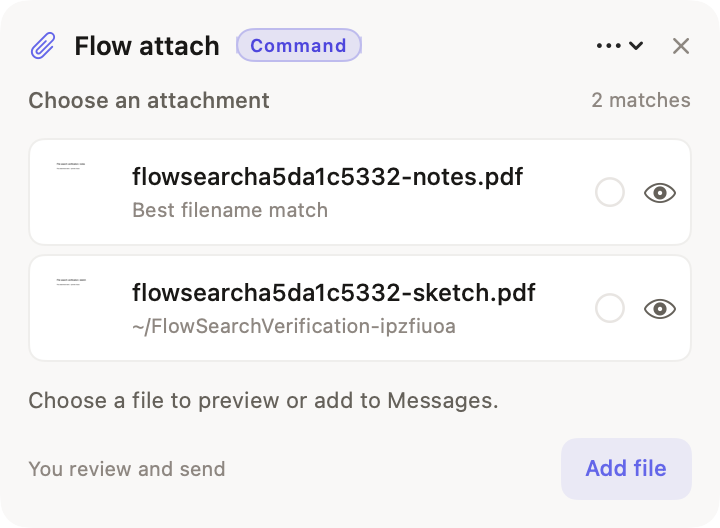
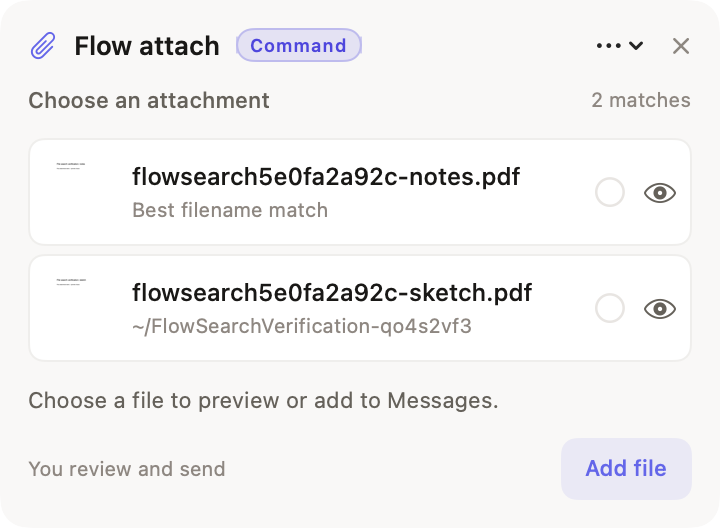
Make the attachment picker clearly show other matches and replacement

Changed region(s): [[0.3667, 0.303, 0.7333, 0.3636], [0.3361, 0.5152, 0.7639, 0.5758], [0.5194, 0.6061, 0.6722, 0.6364]]

diff --git a/Sources/FlowApp/AttachmentCard.swift b/Sources/FlowApp/AttachmentCard.swift
@@ -11,6 +11,21 @@ struct AttachmentCard: View {
     @State private var previewID: UUID?
     @State private var showSearch = false
 
+    private var showingAlternatives: Bool {
+        session.attachedID != nil && (session.attachmentConfirmed || session.busy) &&
+            session.candidates.contains { $0.id != session.attachedID }
+    }
+
+    private var visibleCandidates: [AttachmentCandidate] {
+        showingAlternatives ? session.candidates.filter { $0.id != session.attachedID } : session.candidates
+    }
+
+    private var footerHint: String {
+        if showingAlternatives && session.selectedID == session.attachedID { return "Select one to replace" }
+        if session.attachedID != nil && session.selectedID != session.attachedID { return "Replaces Flow’s file only" }
+        return "You review and send"
+    }
+
     var body: some View {
         if let plan = session.plan {
             VStack(alignment: .leading, spacing: 12) {
@@ -46,27 +61,27 @@ struct AttachmentCard: View {
                     }.disabled(session.busy || session.pasteRequested)
                 }
                 HStack {
-                    Text(session.attachmentConfirmed ? "Added to your draft" : session.searching ? "Finding files…" : "Choose an attachment")
+                    Text(showingAlternatives ? "Other matches" : session.attachmentConfirmed ? "Added to your draft" : session.searching ? "Finding files…" : "Choose an attachment")
                         .font(.system(size: 11, weight: .medium)).foregroundStyle(FW.textSecondary)
                     Spacer()
-                    if !session.candidates.isEmpty {
-                        Text("\(session.candidates.count) \(session.candidates.count == 1 ? "match" : "matches")")
+                    if !visibleCandidates.isEmpty {
+                        Text("\(visibleCandidates.count) \(visibleCandidates.count == 1 ? "match" : "matches")")
                             .font(.system(size: 10)).foregroundStyle(FW.textMuted)
                     }
                 }
-                if !session.candidates.isEmpty {
+                if !visibleCandidates.isEmpty {
                     ScrollView {
                         LazyVStack(spacing: 4) {
-                            ForEach(session.candidates) { candidate in row(candidate) }
+                            ForEach(visibleCandidates) { candidate in row(candidate) }
                         }
                     }
-                    .frame(height: CGFloat(min(session.candidates.count, 3)) * 58 - 4)
+                    .frame(height: CGFloat(min(visibleCandidates.count, 3)) * 58 - 4)
                     .focusable().focusEffectDisabled()
                     .onMoveCommand { direction in
-                        guard !session.busy, direction == .up || direction == .down else { return }
-                        let current = session.candidates.firstIndex { $0.id == session.selectedID } ?? -1
-                        let next = min(session.candidates.count - 1, max(0, current + (direction == .down ? 1 : -1)))
-                        session.choose(session.candidates[next].id)
+                        guard !session.busy, !visibleCandidates.isEmpty, direction == .up || direction == .down else { return }
+                        let current = visibleCandidates.firstIndex { $0.id == session.selectedID } ?? -1
+                        let next = min(visibleCandidates.count - 1, max(0, current + (direction == .down ? 1 : -1)))
+                        session.choose(visibleCandidates[next].id)
                     }
                 }
                 // Keep errors visible, while successful state is communicated in the row.
@@ -75,7 +90,7 @@ struct AttachmentCard: View {
                         .fixedSize(horizontal: false, vertical: true).lineLimit(3)
                 }
                 HStack(spacing: 8) {
-                    Text(session.attachedID != nil && session.selectedID != session.attachedID ? "Replaces Flow’s file only" : "You review and send")
+                    Text(footerHint)
                         .font(.system(size: 10)).foregroundStyle(FW.textMuted)
                     Spacer(minLength: 2)
                     Button(actionTitle) {
@@ -99,7 +114,7 @@ struct AttachmentCard: View {
     private var actionTitle: String {
         if needsManualCopy { return "Copy file" }
         if session.selectedID == session.attachedID, session.attachedID != nil { return "Done" }
-        return session.attachedID == nil ? "Add file" : "Use this file"
+        return session.attachedID == nil ? "Add file" : "Replace"
     }
 
     private func row(_ candidate: AttachmentCandidate) -> some View {

diff --git a/scripts/simulate-imessage-full.swift b/scripts/simulate-imessage-full.swift
@@ -264,6 +264,12 @@ final class FullMessagesDemo {
                 if args.contains("--verify-replacement") { checks["alternative_replacement"] = replacementVerified }
                 state.isProcessing = false; state.isStreamingOutput = false; indicator?.hide()
                 preview?.show(candidateCount: session.candidates.count, isSearch: true)
+                try await Task.sleep(for: .milliseconds(200))
+                if let view = NSApplication.shared.windows.first(where: { $0.title == "Flow · Attachment" })?.contentView,
+                   let bitmap = view.bitmapImageRepForCachingDisplay(in: view.bounds) {
+                    view.cacheDisplay(in: view.bounds, to: bitmap)
+                    try bitmap.representation(using: .png, properties: [:])?.write(to: folder.appendingPathComponent("attachment-popup.png"))
+                }
                 results.append(["kind": kind, "generated_message": output, "command": plan.command,
                     "caption_updates": captionUpdates, "llm_chunks": rawChunks, "display_frames": chunks, "native_text_writes": writer.writes,
                     "display_reveal_seconds": revealSeconds, "largest_display_chunk": largestDisplayChunk, "largest_native_write": writer.largestWrite,

diff --git a/Sources/FlowApp/AttachmentSession.swift b/Sources/FlowApp/AttachmentSession.swift
@@ -145,7 +145,7 @@ final class AttachmentSession: ObservableObject {
         guard !busy, candidates.contains(where: { $0.id == id }) else { return }
         selectedID = id; needsChoice = false; hasIssue = false
         status = id == attachedID ? "Already in your Messages draft. You send the message."
-            : attachedID == nil ? "Selected for review. You send the message." : "Choose Use this file to replace only the attachment Flow added."
+            : attachedID == nil ? "Selected for review. You send the message." : "Choose Replace to change only the attachment Flow added."
     }
 
     func automaticallyStage(engine: Flow, insertionUnchanged: Bool) async {

diff --git a/scripts/simulate-imessage-full.py b/scripts/simulate-imessage-full.py
@@ -7,6 +7,7 @@ import os
 from pathlib import Path
 import plistlib
 import signal
+import shutil
 import subprocess
 import tempfile
 import time
@@ -72,6 +73,7 @@ def main():
             (folder / f'{kind}.pcm').write_bytes(audio.readframes(audio.getnframes()))
     report = folder / 'report.json'
     report.unlink(missing_ok=True)
+    (folder / 'attachment-popup.png').unlink(missing_ok=True)
     subprocess.run(['open', '-a', 'Messages'], check=True)
     with (folder / 'stdout.log').open('w') as out, (folder / 'stderr.log').open('w') as err:
         command = [str(executable), '--voice-simulation', '--folder', str(folder), '--fixtures', str(fixtures),
@@ -85,6 +87,8 @@ def main():
             result = json.loads(report.read_text())
             if result['status'] != 'running':
                 (ROOT / 'review/imessage-full-demo-verification.json').write_text(json.dumps(result, indent=2) + '\n')
+                if result['status'] == 'ready' and (folder / 'attachment-popup.png').exists():
+                    shutil.copyfile(folder / 'attachment-popup.png', ROOT / 'review/imessage-other-matches.png')
                 print(json.dumps(result, indent=2))
                 if result['status'] != 'ready': raise SystemExit(1)
                 print('Full demo finished. Attachments and candidate popup remain in Messages; nothing was sent.')

diff --git a/docs/attachment-resume.md b/docs/attachment-resume.md
@@ -399,3 +399,28 @@ comparison verified changing dots, unchanged white live-message pixels across
 dot frames and the same caption border position before/after recording. The
 review GIF and stills are updated. These checks used synthetic captions and real
 local OCR without microphone, cloud requests or Messages writes.
+
+## Make attachment alternatives explicit (October 18)
+
+The user wanted the popup to explain that the best match is already attached
+and the list contains other choices, using concise language. After confirmation,
+the picker now says Other matches and filters out Flow's currently attached file.
+The count reflects the remaining choices. Select one to replace guides the next
+action, and choosing a candidate changes the button to Replace. Done dismisses
+without changing the file. Initial selection and single-file confirmation retain
+their existing labels. Keyboard selection uses the visible list, including an
+empty-list guard. During an active replacement, the alternative list stays stable.
+
+The 15 real local Spotlight/picker checks passed with even margins in the original
+selected/unselected states. A full generated-speech Messages run with replacement
+verification passed all 13 checks: 16 live-caption updates, six model chunks,
+44 display frames and 22 native writes over 2.07 seconds. The best screenshot was
+added, an alternative was swapped in and the original restored, preserving text
+and all unrelated objects. One earlier take stopped before typing because the
+original draft changed during playback; its edit was retained.
+
+The actual final popup was captured through its native view without screen-
+recording access and visually reviewed: Other matches, one alternative, Select
+one to replace and Done, with the already-attached file absent. See
+review/imessage-other-matches.png and the updated full-demo report. The latest
+Messages draft and picker remain open. No Send event was generated.

diff --git a/docs/command-ripple.md b/docs/command-ripple.md
@@ -95,9 +95,11 @@ draft and appends a synthetic screenshot. It never sends. Unlike the isolated
 visual preview, this path makes real ASR/LLM requests. Existing text and files
 remain intact, and the installed permissioned app bundle is not replaced.
 
-The latest October 18 run passed 12 checks: 16 live-caption updates detected the
+The latest October 18 run passed 13 checks: 16 live-caption updates detected the
 real Flow cue, six model chunks became 44 small display frames and 22 native
-writes over about 1.82 seconds, and the screenshot was confirmed with an
-alternative candidate. The reveal is paced more slowly for readability.
+writes over about 2.07 seconds, and an alternative screenshot was safely swapped
+in and back. The popup says Other matches and lists only alternatives to the
+file already attached; selecting one offers Replace. See
+[the actual picker](../review/imessage-other-matches.png).
 See review/imessage-full-demo-verification.json. The processing label is now
 centered with balanced spinner space and a visible spinner on the dark pill.

diff --git a/docs/streaming-presentation.md b/docs/streaming-presentation.md
@@ -33,8 +33,9 @@ the slower reveal for short messages, a four-grapheme limit on display chunks
 and a two-grapheme limit on native writes. Replays reuse existing screenshot
 fixtures instead of rewriting source files that may already be attached.
 
-The latest real Messages screenshot run passed all 12 checks: six genuine model
-chunks became 44 single-grapheme display frames and 22 native writes over about
-1.82 seconds, compared with 1.17 seconds in the prior replay. Final text and
-existing native attachments were preserved; nothing was sent. See
+The latest real Messages screenshot run passed all 13 checks, including swapping
+an alternative file in and back: six genuine model chunks became 44 single-
+grapheme display frames and 22 native writes over about 2.07 seconds. The prior
+replay was 1.17 seconds. Final text and existing native attachments were preserved;
+nothing was sent. See
 [the scoped report](../review/imessage-full-demo-verification.json).
